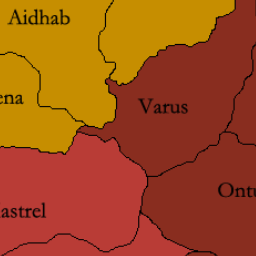
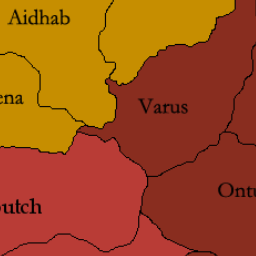
Map 0.2
Adding icons, renamed Hastrel to Sutch

Changed region(s): [[0.0, 0.7812, 0.1875, 0.875]]

diff --git a/index.html b/index.html
@@ -8,10 +8,11 @@
 	<link rel="stylesheet" href="http://cdn.leafletjs.com/leaflet/v0.7.7/leaflet.css" />
 	<style>
 		#map { 
-			width: 1023px;
-			height: 767px;
+			width: 100%;
+			height: 100%;
 			margin-left: auto;
 			margin-right: auto;
+			background-color: #74AADB;
 			}
 	</style>
 </head>
@@ -21,16 +22,51 @@
 	<script src="http://cdn.leafletjs.com/leaflet/v0.7.7/leaflet.js"></script>
 
     <script>
-        var map = L.map('map').setView([0, 0], 2);
+        var map = L.map('map').setView([50.85, -8.04], 3);
         L.tileLayer('output/tile_{z}_{x}-{y}.png', {
             minZoom: 1,
             maxZoom: 5,
             attribution: 'NirnPowers Map by tofukiin',
             tms: false,
 			noWrap: true,
-			crs: L.CRS.Simple,
         }).addTo(map);
-		var bounds = [[0,0],[8192,8192]];
+		
+				/*This function gives you Lat Long of what you click on */
+		var popup = L.popup();
+
+		function onMapClick(e) {
+			popup
+				.setLatLng(e.latlng)
+				.setContent("You clicked the map at " + e.latlng.toString())
+				.openOn(map);
+		};
+
+		map.on('click', onMapClick);
+		
+		/*Custom Icons*/
+		var npIcon = L.Icon.extend({
+			options: {
+				iconSize: [52, 52],
+				iconAnchor: [26, 52],
+				popupAnchor: [0, -52],
+			}
+		});
+		var alinor = new npIcon({iconUrl: 'icons/alinor2.png'}),
+			aka = new npIcon({iconUrl: 'icons/akaviri.png'})
+			imperial = new npIcon({iconUrl: 'icons/imperialcity.png'})
+			ind = new npIcon({iconUrl: 'icons/tribe.png'})
+		;
+		
+		/*Marker Placements*/
+		L.marker([11.1, -83.3], {icon: alinor}).bindPopup('Auridon').addTo(map);
+		L.marker([-7.0, -112.4], {icon: alinor}).bindPopup('Alinor').addTo(map);
+		L.marker([15.2, -101.7], {icon: alinor}).bindPopup('Cloudrest').addTo(map);
+		L.marker([-11.7, -89.6], {icon: alinor}).bindPopup('Dusk').addTo(map);
+		L.marker([51.6, -8.9], {icon: imperial}).bindPopup('The White Gold City').addTo(map);
+		L.marker([23.5, -168.9], {icon: ind}).bindPopup('Sinistral Mer').addTo(map);
+		L.marker([50.4, -163.4], {icon: ind}).bindPopup('No-Totambu').addTo(map);
+		L.marker([34.5, -146.9], {icon: ind}).bindPopup('Coral Kingdom (Sloads)').addTo(map);
+		L.marker([31.4, -110.6], {icon: ind}).bindPopup('Eyevea').addTo(map);
     </script>
 </body>
 </html>
